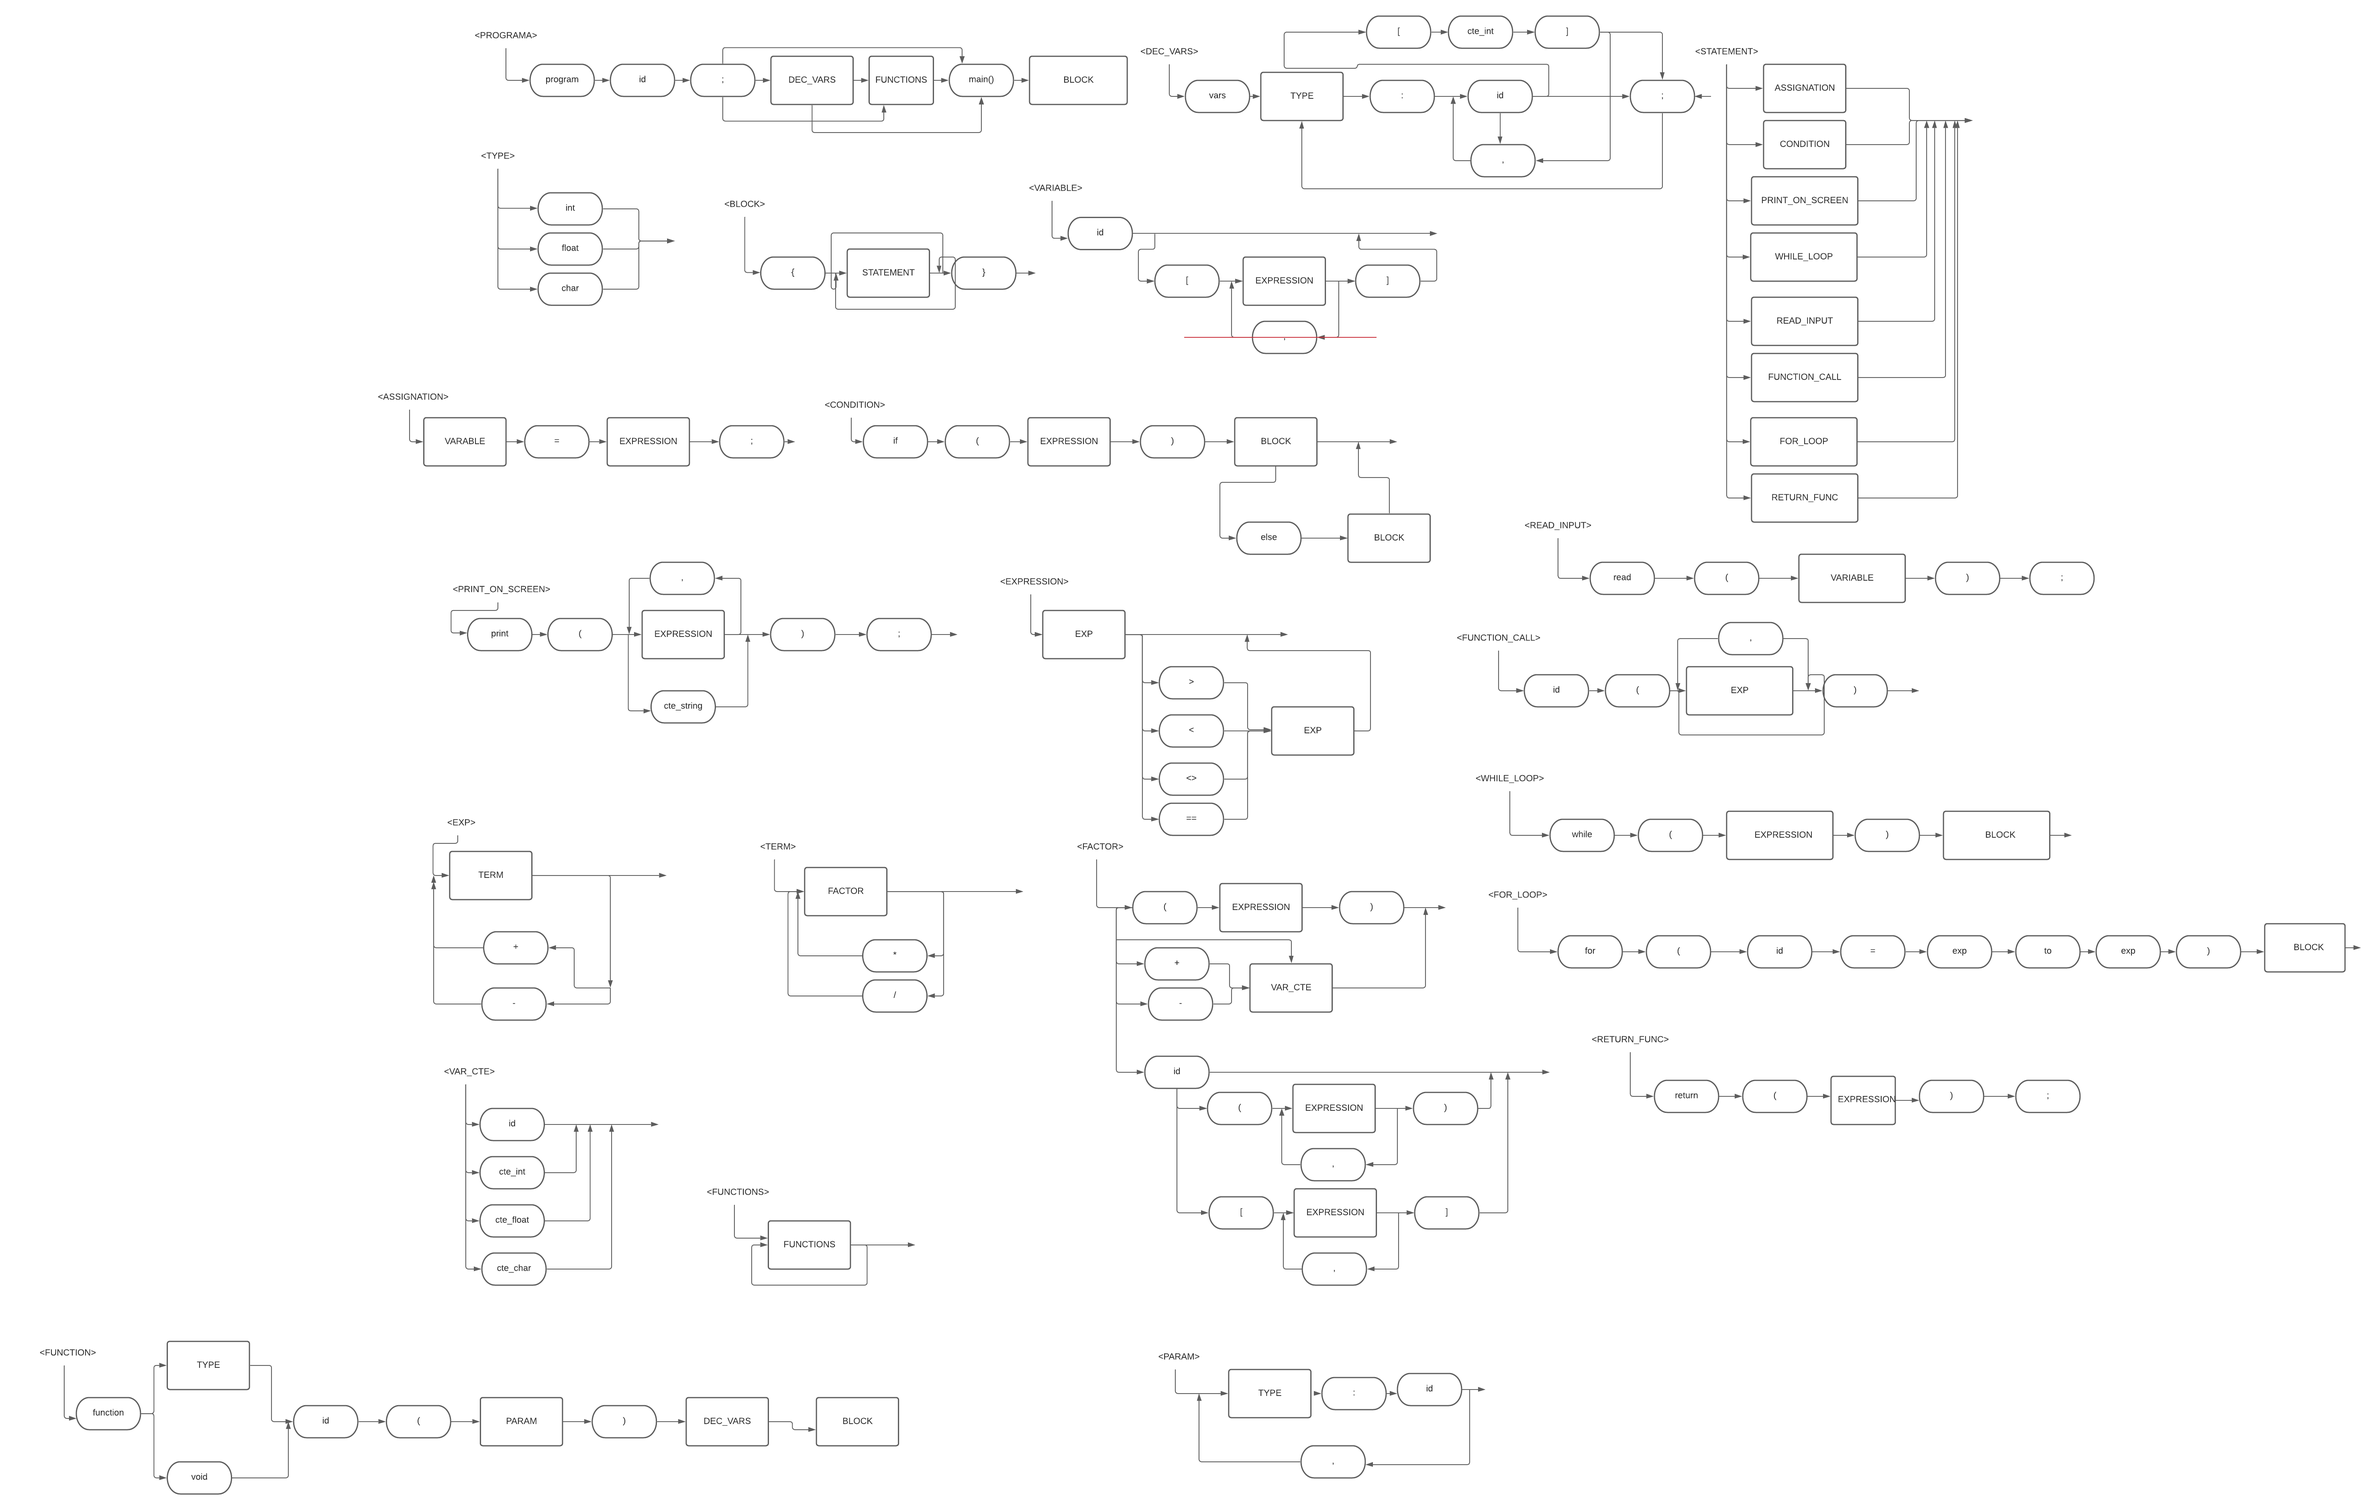
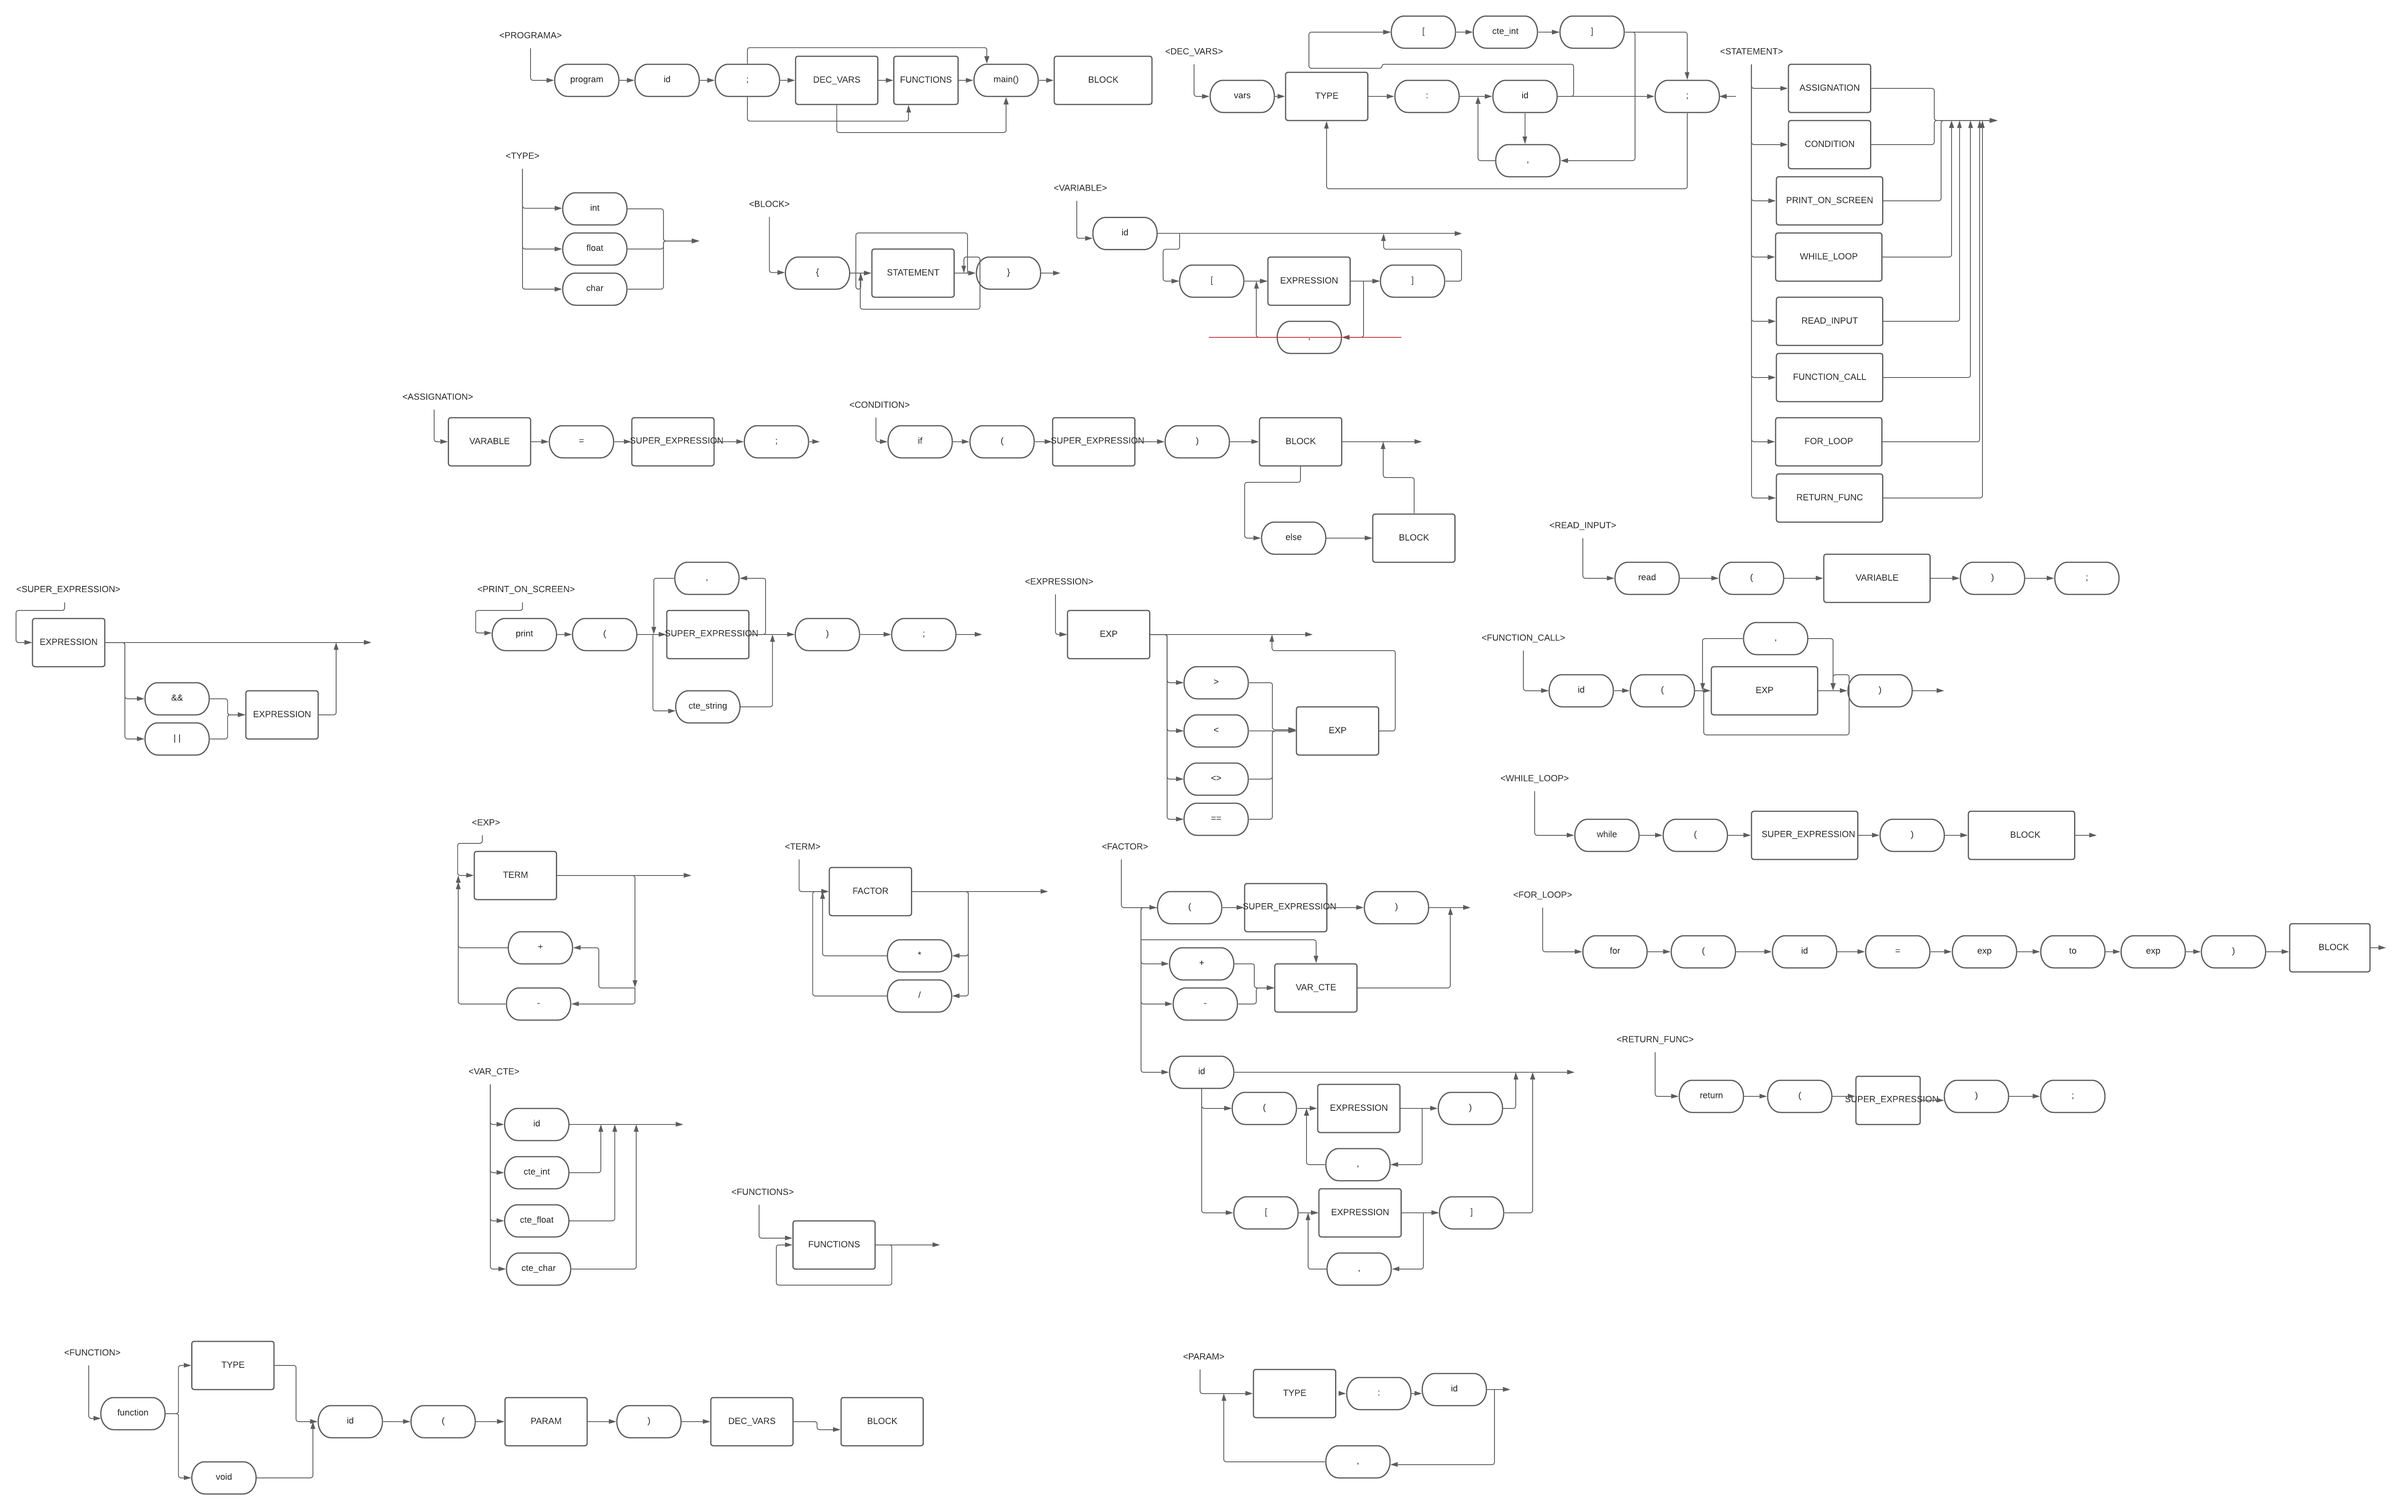
Added super expression (&&, ||)

diff --git a/main.py b/main.py
@@ -47,6 +47,7 @@ tokens = ['LETTER',
           'TWOPOINTS',
           'OPERATORTYPE1',
           'OPERATORTYPE2',
+          'LOGICOPERATOR',
           'SEMICOLON',
           'COMMA'] + list(reserved.values())
 
@@ -72,6 +73,7 @@ t_RSQUAREBRACKET = r'\]'
 t_TWOPOINTS = r':'
 t_OPERATORTYPE1 = r'\+|\-'
 t_OPERATORTYPE2 = r'(\*|\/)'
+t_LOGICOPERATOR = r'(\&\&|\|\|)'
 t_SEMICOLON = r';'
 t_COMMA = r','
 t_ignore = ' '
@@ -228,24 +230,29 @@ def p_PRINT_ON_SCREEN3(p):
               | RPAREN SEMICOLON'''
 
 def p_WHILE_LOOP(p):
-    '''whileLoop : WHILE LPAREN expression RPAREN block'''
+    '''whileLoop : WHILE LPAREN superExpression RPAREN block'''
 
 def p_FOR_LOOP(p):
     '''forLoop : FOR LPAREN ID EQUAL exp TO exp RPAREN block'''
 
 def p_RETURN_FUNC(p):
-    '''returnFunc : RETURN LPAREN expression RPAREN SEMICOLON'''
+    '''returnFunc : RETURN LPAREN superExpression RPAREN SEMICOLON'''
 
 def p_READ_INPUT(p):
     '''readInput : READ LPAREN variable RPAREN SEMICOLON'''
+
+
+def p_SUPER_EXPRESSION(p):
+    '''superExpression : expression qnp7_push_logicOperation_apply
+                 | expression LOGICOPERATOR qnp2_push_operations expression qnp7_push_logicOperation_apply'''
 
 def p_EXPRESSION(p):
     '''expression : exp qnp6_push_operationtypeRELOP_apply
                  | exp RELOP qnp2_push_operations exp qnp6_push_operationtypeRELOP_apply'''
 
 def p_CONDITION(p):
-    '''condition : IF LPAREN expression ifnp1 RPAREN block ifnp2End
-                 | IF LPAREN expression ifnp1 RPAREN block ELSE ifnp3Else block ifnp2End'''
+    '''condition : IF LPAREN superExpression ifnp1 RPAREN block ifnp2End
+                 | IF LPAREN superExpression ifnp1 RPAREN block ELSE ifnp3Else block ifnp2End'''
     
 
 
@@ -254,8 +261,8 @@ def p_FUNCTION_CALL(p):
                     | ID LPAREN RPAREN'''
 
 def p_FUNCTION_CALL2(p):
-    '''functionCall2 : expression RPAREN
-                     | expression COMMA functionCall2'''
+    '''functionCall2 : superExpression RPAREN
+                     | superExpression COMMA functionCall2'''
 
 def p_EXP(p):
     '''exp : term qnp4_push_operationtype1_apply exp2'''
@@ -272,7 +279,7 @@ def p_TERM2(p):
              | empty'''
 
 def p_FACTOR(p):
-    '''factor : LPAREN np_pushFakeBottom expression RPAREN np_popFakeBottom
+    '''factor : LPAREN np_pushFakeBottom superExpression RPAREN np_popFakeBottom
               | factor2 varcte
               | factor3'''
 
@@ -442,6 +449,13 @@ def p_QNP6_OPERATIONTYPERELOP_APPLY(p):
     if (quadruples.getOperationsStack().size() > 0):
         #("CHECK RELOP", quadruples.getOperationsStack().top())
         if (quadruples.getOperationsStack().top() == ">" or quadruples.getOperationsStack().top() == "<" or quadruples.getOperationsStack().top() == "<>" or quadruples.getOperationsStack().top() == "<=" or quadruples.getOperationsStack().top() == ">="):
+            quadruplesProcess()
+    
+def p_QNP7_LOGICOPERATION_APPLY(p):
+    '''qnp7_push_logicOperation_apply : empty'''
+    if (quadruples.getOperationsStack().size() > 0):
+        print("CHECK LOGIC", quadruples.getOperationsStack().top())
+        if (quadruples.getOperationsStack().top() == "&&" or quadruples.getOperationsStack().top() == "||"):
             quadruplesProcess()
 
 

diff --git a/semanticCube.py b/semanticCube.py
@@ -59,4 +59,10 @@ semantic = {
             "<>": "boolean"
         } 
     },
+    "boolean": {
+        "boolean": {
+            "&&": "boolean",
+            "||": "boolean"
+        }
+    }
 }
